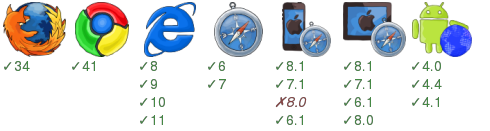
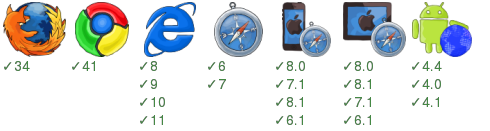
Auto commit smoke test results for 09eef0ac4c5a7f6478a1413eaaa391cb45cee3c9 [ci skip]

diff --git a/examples/00hello/badge.html b/examples/00hello/badge.html
@@ -29,20 +29,20 @@ div{vertical-align:top;overflow:hidden;display:inline-block;width:92px;padding:4
 <p>&#x2713;7</p>
 </div><div>
 <img src="/home/travis/build/zordius/fluxex/examples/00hello/node_modules/badge-render/browser-badge/static/iphone.png" />
-<p>&#x2713;8.1</p>
+<p>&#x2713;8.0</p>
 <p>&#x2713;7.1</p>
-<i>&#x2717;8.0</i>
+<p>&#x2713;8.1</p>
 <p>&#x2713;6.1</p>
 </div><div>
 <img src="/home/travis/build/zordius/fluxex/examples/00hello/node_modules/badge-render/browser-badge/static/ipad.png" />
+<p>&#x2713;8.0</p>
 <p>&#x2713;8.1</p>
 <p>&#x2713;7.1</p>
 <p>&#x2713;6.1</p>
-<p>&#x2713;8.0</p>
 </div><div>
 <img src="/home/travis/build/zordius/fluxex/examples/00hello/node_modules/badge-render/browser-badge/static/android-browser.png" />
-<p>&#x2713;4.0</p>
 <p>&#x2713;4.4</p>
+<p>&#x2713;4.0</p>
 <p>&#x2713;4.1</p>
 </div></body>
 </html>
